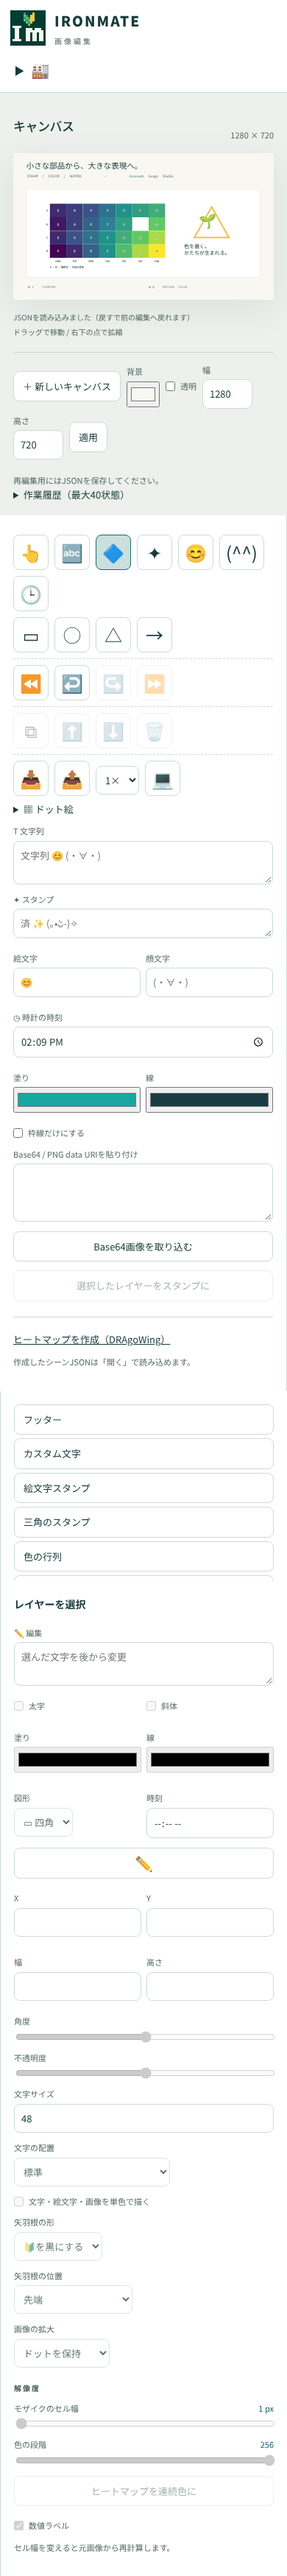
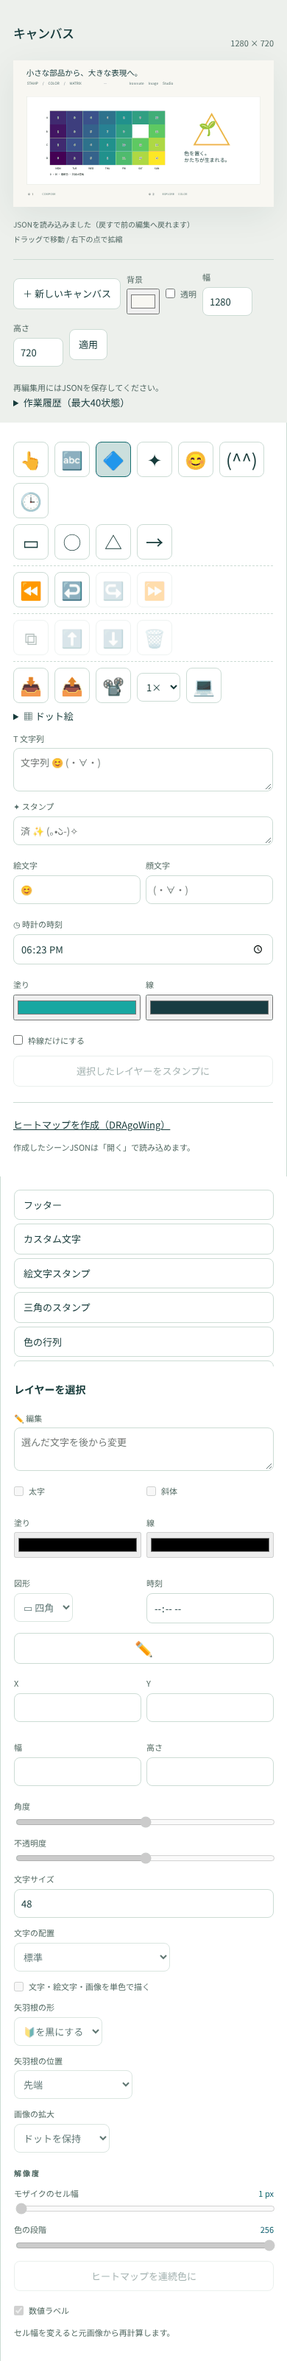
📌 PySaiyanWeBoo を e4bb709（画像工房の上の帯の規則をなくす、PySaiyanWeBoo#234）へ、証跡の画面を撮り直す
Claude-Session: https://claude.ai/code/session_01YSgSJHsu35KVtPH5EvLLby

diff --git a/ironlib/studio_bundle.py b/ironlib/studio_bundle.py
@@ -358,7 +358,7 @@ STUDIO_HTML = r"""<!doctype html>
 </html>
 """
 
-STYLE_CSS = r"""/* web-ui-bundle/1 commit=ed32bdf8174591fa7c79c5d76acb5fd1e4369743 sha256=1050864a3a1a27473139fe3db824ea5917975b3f4c803c5383fafb276aeea663 scripts/build_studio_css.py*/
+STYLE_CSS = r"""/* web-ui-bundle/1 commit=e4bb709a3573ad22f0c27a447ccb59b762e2a8da sha256=4a8c15c1e6ef8c2d787a68d450e409f1fbc0f25086f8426ff6075e8f79476ac4 scripts/build_studio_css.py*/
 @layer base,components,theme;
 /* css/tokens.css */
 :root{--ui-bg:#0d1117;--ui-panel:#101820;--ui-fg:#d1f7c4;--ui-muted:#8b949e;--ui-border:#58a6ff;--ui-accent:#7ee787;--ui-danger:#cf222e;--ui-radius:0;--ui-text:16px;--ui-space:1rem;--ui-max:960px;--ui-font:Meiryo,メイリオ,sans-serif;--ui-font-mono:ui-monospace,SFMono-Regular,Menlo,Monaco,Consolas,"Liberation Mono","Courier New",monospace}
@@ -384,21 +384,12 @@ body[data-ui-labels=words] [data-ui-word]{font-size:0}[data-ui-labels=words] [da
 
 /* studio layout */
 body:where([data-page~="studio"]){font-size:13px;line-height:1.5;margin:0}
-:where([data-page~="studio"]) header{min-height:76px;background:var(--ui-panel);color:var(--ui-fg);box-shadow:inset 0 -1px var(--ui-border);padding:18px 26px;display:flex;align-items:center;justify-content:space-between;gap:20px}
-:where([data-page~="studio"]) .brand{display:flex;align-items:center;gap:12px;font-weight:800;letter-spacing:2px;font-size:19px;white-space:nowrap}
-:where([data-page~="studio"]) .brand span{font-weight:400;font-size:10px;display:block;letter-spacing:3px;margin:5px 0 0;color:var(--ui-muted)}
-:where([data-page~="studio"]) .brand img{flex:none;image-rendering:pixelated}
-:where([data-page~="studio"]) .top-actions{display:flex;flex-wrap:wrap;gap:7px}
-:where([data-page~="studio"]) .top-actions summary{cursor:pointer;padding:7px}
-:where([data-page~="studio"]) .top-actions details a{color:var(--ui-accent);align-self:center;padding:7px 3px;text-underline-offset:3px}
 :where([data-page~="studio"]) button:where(:not(.ui-toolbar-row>*)),:where([data-page~="studio"]) .button{display:inline-flex;align-items:center;justify-content:center;gap:5px;text-decoration:none;min-height:38px;padding:10px 12px}
 :where([data-page~="studio"]) .button{font:inherit;cursor:pointer;background:var(--ui-panel);color:var(--ui-fg);border:1px solid var(--ui-border);border-radius:var(--ui-radius)}
 :where([data-page~="studio"]) button:hover,:where([data-page~="studio"]) .button:hover{border-color:var(--ui-accent);background:color-mix(in srgb,var(--ui-accent) 12%,var(--ui-panel))}
 :where([data-page~="studio"]) .primary{background:var(--ui-accent);border-color:var(--ui-accent);color:var(--ui-bg);font-weight:700}
-:where([data-page~="studio"]) header button,:where([data-page~="studio"]) header .button,:where([data-page~="studio"]) header select{border-color:var(--ui-border);background:var(--ui-bg);color:var(--ui-fg)}
-:where([data-page~="studio"]) header .primary{background:var(--ui-accent);color:var(--ui-bg);border-color:var(--ui-accent)}
 :where([data-page~="studio"]) input[type=file]{display:none}
-:where([data-page~="studio"]) main{display:grid;grid-template-columns:250px minmax(0,1fr) 238px;min-height:calc(100vh - 76px)}
+:where([data-page~="studio"]) main{display:grid;grid-template-columns:250px minmax(0,1fr) 238px;min-height:100vh}
 :where([data-page~="studio"]) aside{padding:24px 20px;background:var(--ui-panel)}
 :where([data-page~="studio"]) aside.tools{border-right:1px solid var(--ui-border)}
 :where([data-page~="studio"]) aside.inspector{border-left:1px solid var(--ui-border)}
@@ -458,7 +449,7 @@ body:where([data-page~="studio"]){font-size:13px;line-height:1.5;margin:0}
 :where([data-page~="studio"]) #base64-dialog p{font-size:12px;line-height:1.8}
 @media(min-width:1600px){:where([data-page~="studio"]) .workspace{padding:44px}}
 @media(max-width:1150px){:where([data-page~="studio"]) main{grid-template-columns:210px minmax(0,1fr)}:where([data-page~="studio"]) .inspector{grid-column:1/-1;display:grid;grid-template-columns:1fr 1fr 1fr;gap:20px}:where([data-page~="studio"]) .inspector>.eyebrow{display:none}:where([data-page~="studio"]) .inspector>.section{margin:0;border:0;padding:0}:where([data-page~="studio"]) .workspace{padding:22px}}
-@media(max-width:680px){:where([data-page~="studio"]) header{padding:14px;display:block}:where([data-page~="studio"]) .top-actions{margin-top:15px}:where([data-page~="studio"]) .top-actions button,:where([data-page~="studio"]) .top-actions .button{padding:7px;font-size:11px}:where([data-page~="studio"]) main{display:flex;flex-direction:column}:where([data-page~="studio"]) .workspace{order:-1;padding:18px}:where([data-page~="studio"]) .canvas-heading h2{font-size:17px}:where([data-page~="studio"]) .canvas-heading{margin-bottom:16px}:where([data-page~="studio"]) .canvas-footer{display:block}:where([data-page~="studio"]) .canvas-footer span{display:block;margin:5px 0}:where([data-page~="studio"]) .tools{display:block}:where([data-page~="studio"]) .tools h1,:where([data-page~="studio"]) .tools>.hint{display:none}:where([data-page~="studio"]) .tools>.ui-toolbar{margin:8px 0}:where([data-page~="studio"]) .inspector{display:block}:where([data-page~="studio"]) .inspector>.section{margin-top:20px}:where([data-page~="studio"]) .canvas-settings{margin-top:20px;padding-top:15px}:where([data-page~="studio"]) .board{width:100%}:where([data-page~="studio"]) aside{padding:18px}:where([data-page~="studio"]) .tools>.section{margin-top:15px}}
+@media(max-width:680px){:where([data-page~="studio"]) main{display:flex;flex-direction:column}:where([data-page~="studio"]) .workspace{order:-1;padding:18px}:where([data-page~="studio"]) .canvas-heading h2{font-size:17px}:where([data-page~="studio"]) .canvas-heading{margin-bottom:16px}:where([data-page~="studio"]) .canvas-footer{display:block}:where([data-page~="studio"]) .canvas-footer span{display:block;margin:5px 0}:where([data-page~="studio"]) .tools{display:block}:where([data-page~="studio"]) .tools h1,:where([data-page~="studio"]) .tools>.hint{display:none}:where([data-page~="studio"]) .tools>.ui-toolbar{margin:8px 0}:where([data-page~="studio"]) .inspector{display:block}:where([data-page~="studio"]) .inspector>.section{margin-top:20px}:where([data-page~="studio"]) .canvas-settings{margin-top:20px;padding-top:15px}:where([data-page~="studio"]) .board{width:100%}:where([data-page~="studio"]) aside{padding:18px}:where([data-page~="studio"]) .tools>.section{margin-top:15px}}
 
 /* tools page layout */
 body:where([data-page~="tools"]){font-size:15px;line-height:1.65;margin:0}
@@ -569,7 +560,7 @@ const StudioCore = (function (root) {
   const fail = (message) => {
     throw new Error(message);
   };
-  /* PSWB heatmap-color.js @ ed32bdf8174591fa7c79c5d76acb5fd1e4369743. Generated by scripts/build_studio_css.py. */
+  /* PSWB heatmap-color.js @ e4bb709a3573ad22f0c27a447ccb59b762e2a8da. Generated by scripts/build_studio_css.py. */
   const heatmapDefaultPalette=["#440154", "#3B528B", "#21918C", "#5EC962", "#FDE725"];
   function heatmapColor(v,lo,hi,levels=0,palette=heatmapDefaultPalette){
    if(!Array.isArray(palette)||palette.length<2||palette.length>256||
@@ -1168,7 +1159,7 @@ const StudioCore = (function (root) {
 /* Browser/Node shared operations. Pixel coordinates follow grid_tools.py. */
 const IronmateTools = (function (root) {
   "use strict";
-  /* PSWB pixel-grid.js @ ed32bdf8174591fa7c79c5d76acb5fd1e4369743. Generated by scripts/build_studio_css.py. */
+  /* PSWB pixel-grid.js @ e4bb709a3573ad22f0c27a447ccb59b762e2a8da. Generated by scripts/build_studio_css.py. */
   /* web-ui pixel-grid: a dot-art grid checked, resized, drawn as SVG and described for a PNG; Base64 length; PNG chunks. pysaiyanweboo.py (pixel_grid_*, base64_length) is the reference; this must agree. */
   const PIXEL_GRID_SCHEMA="ironmate-pixel-grid/1";
   function pixelGridValidate(value){
@@ -1234,7 +1225,7 @@ const IronmateSlides = (function (root) {
   "use strict";
   const C = StudioCore;
   const shell = IronmateSlideShell;
-  /* PSWB slide-deck.js @ ed32bdf8174591fa7c79c5d76acb5fd1e4369743. Generated by scripts/build_studio_css.py. */
+  /* PSWB slide-deck.js @ e4bb709a3573ad22f0c27a447ccb59b762e2a8da. Generated by scripts/build_studio_css.py. */
   /* web-ui slide-deck: several scenes of the image studio as one deck (checked, kept as JSON, pages added, copied, deleted and moved) and written as a PPTX in the page: text, rectangles, ellipses, triangles and arrows stay editable, anything else is a picture. slideDeck(core, shell): core is js/imagestudio.js (or the same functions), shell the empty package the slides go into (part name to text). pysaiyanweboo.py (slide_deck_*) is the reference; this must agree. */
   function slideDeck(C, shell) {
     const SCHEMA = "ironmate-slide-deck/1",
@@ -3223,7 +3214,7 @@ if (typeof document !== "undefined" && (document.getElementById("pixel-editor") 
   });
 })();
 
-/* ⬇ pysaiyanweboo ed32bdf8 (stage, pager, labels-switch, toolbar): written by scripts/build_studio_css.py from the pinned commit; --check fails when it drifts */
+/* ⬇ pysaiyanweboo e4bb709a (stage, pager, labels-switch, toolbar): written by scripts/build_studio_css.py from the pinned commit; --check fails when it drifts */
 (() => {
 /* A rotary dial over a range input (dial_html): drag around its centre, turn the wheel, or use the range's own keys. Value and events stay the input's. */
 function dialAngle(value,min,max){const span=max-min;const t=span>0?(Number(value)-min)/span:0;return -135+270*Math.min(1,Math.max(0,t))}
